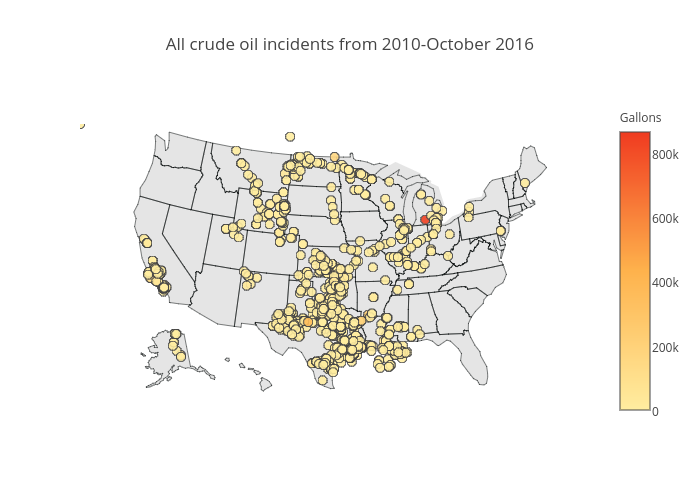
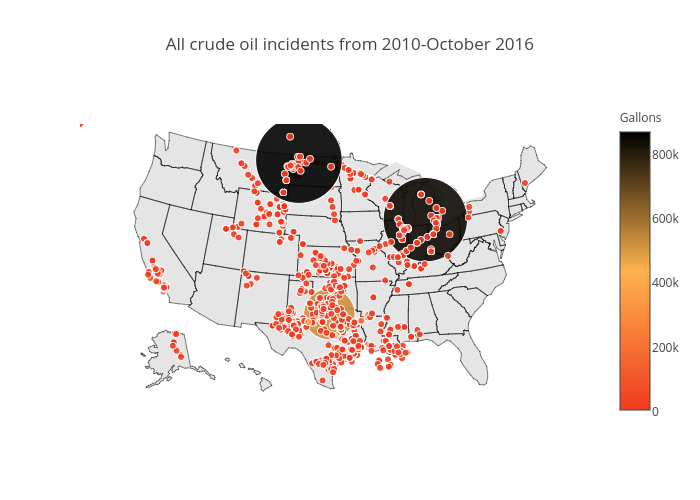
rebuilding site 2016-12-04T01:36:52 MST

diff --git a/blog/20161203_pipeline/index.html b/blog/20161203_pipeline/index.html
@@ -606,7 +606,7 @@ Image('./incident_states.png')
 
 <h3 id="incidents-on-map">Incidents on map</h3>
 
-<p>Finally, maybe the most informative plot is the spatial distribution of all incidents. The map shows that spills really happen wherever there is a pipeline. Possibly connecting points will show exatcly where pipelines are placed.The color of points is proportional to the released volume. The lonely red point in the map is an accident in North Dakota (July 2013) with over 865000 released costing more than $20 million.</p>
+<p>Finally, maybe the most informative plot is the spatial distribution of all incidents. The map shows that spills really happen wherever there is a pipeline. Possibly connecting points will show exatcly where pipelines are placed.The color of points is proportional to the released volume. The two large black points are two accidents in North Dakota (July 2013, 865000 gallons, \$20 million) and Michigan (July 2010, 843000 gallons, \$1 billion).</p>
 
 <pre><code class="language-python">datax = [ dict(
         type = 'scattergeo',
@@ -670,6 +670,7 @@ Image('./incident_ditribution.png')
 <li>How long was the response time?</li>
 <li>What are the most vulnerable areas? Is the vulnerability related to their age?</li>
 <li>How does cost depend on the commodity, volume and cost?</li>
+<li>Categorize spills based on the volume and cost because many spills have really small volumes.</li>
 </ul>
 
 <p>I&rsquo;ll be grateful to hear your ideas, comments, and suggestions!</p>
